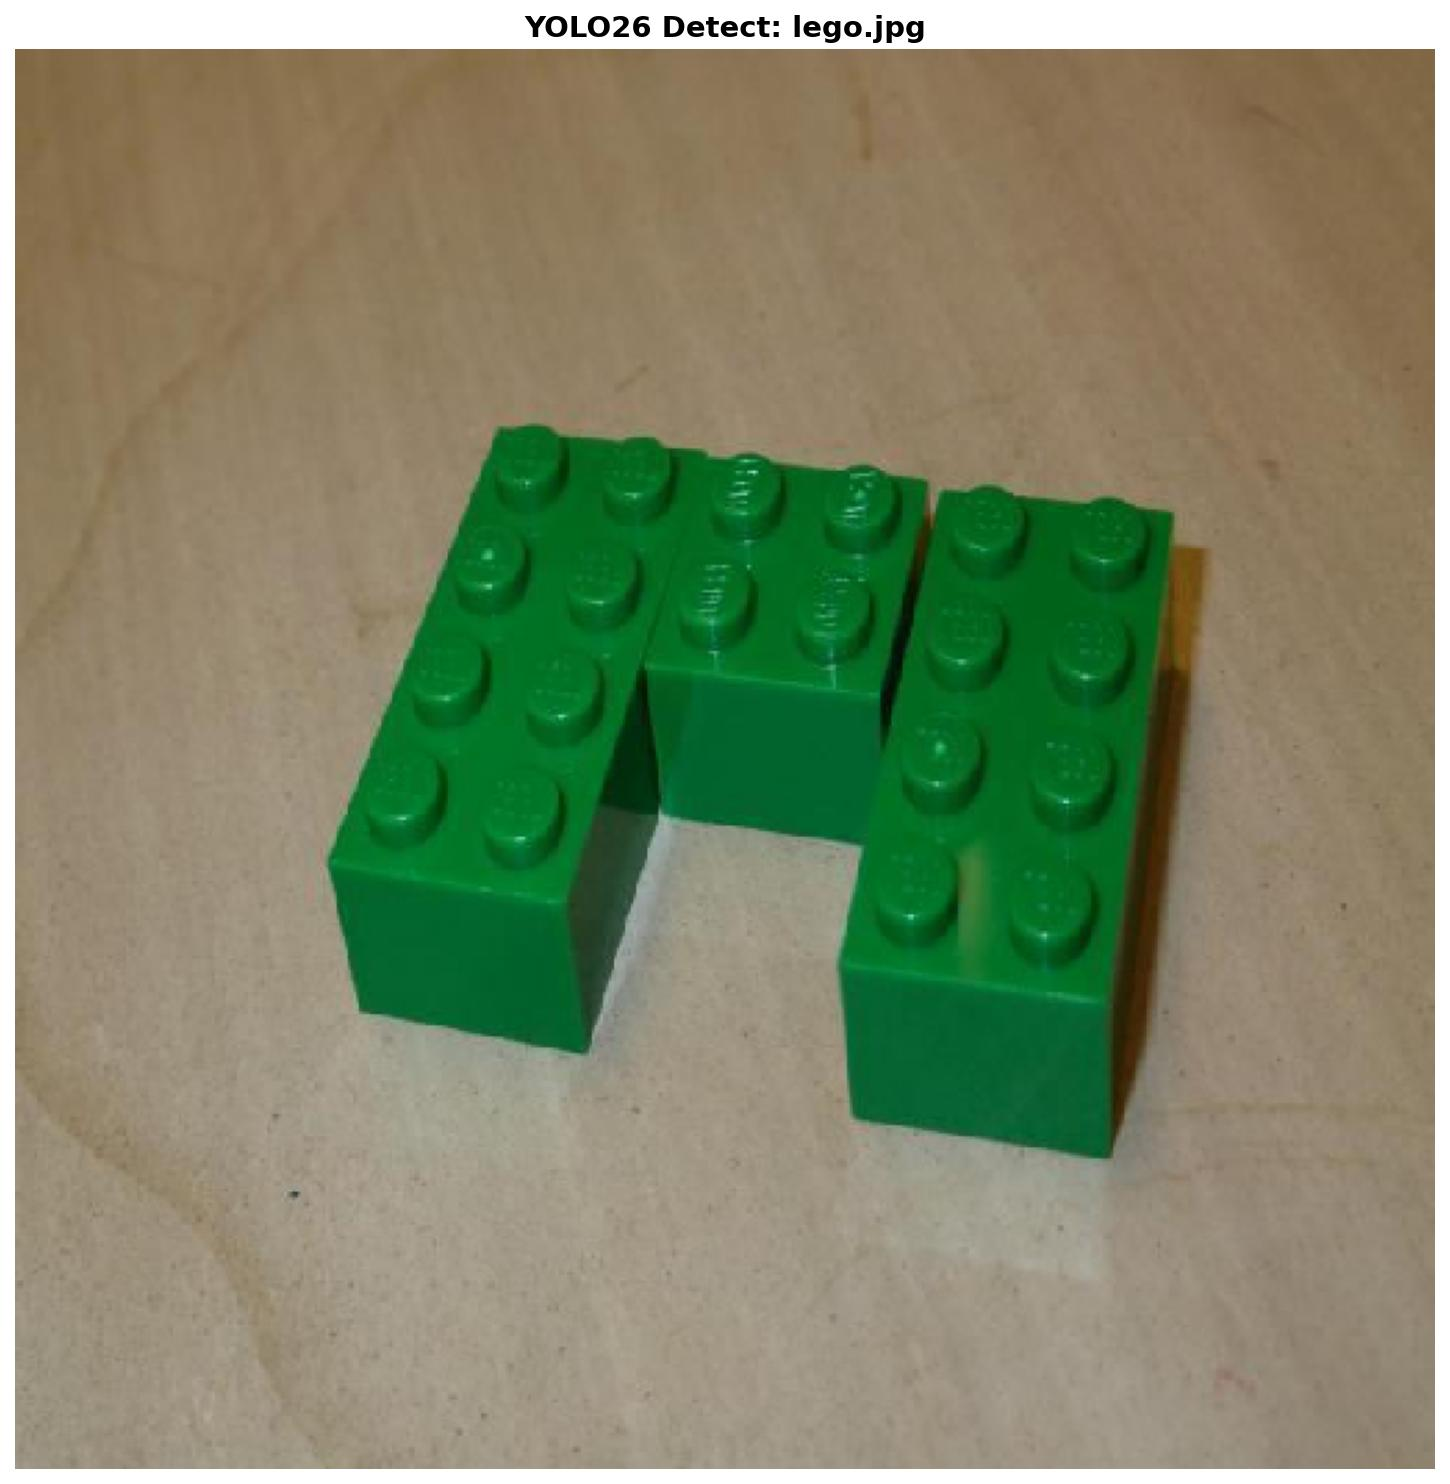
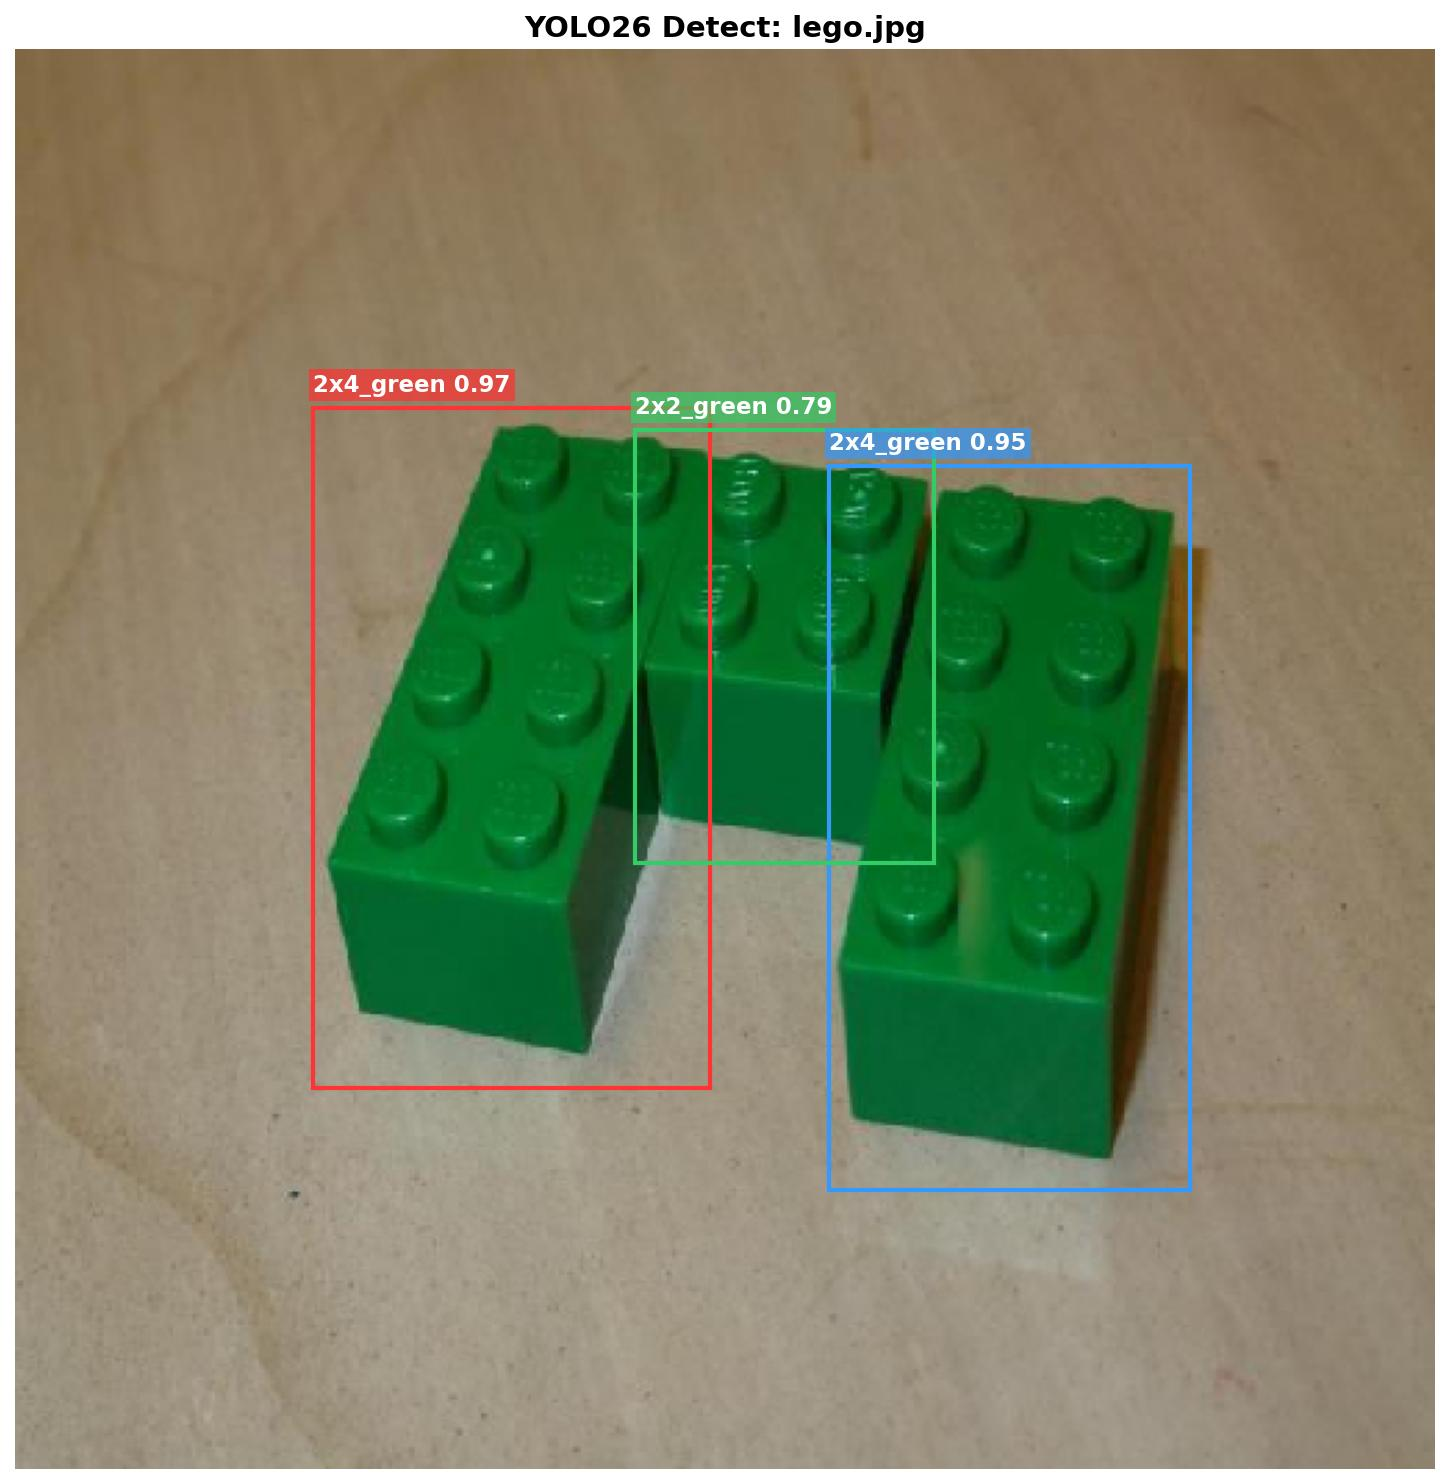
fix: separate COCO/Lego builds with #ifdef, fix wrong detection image in README
- Auto-select class labels, headers, and test images from MODEL_FILENAME
- Replace incorrect Lego detection image (was generated with COCO model)
- Single user config: set(MODEL_FILENAME ...) controls everything

Changed region(s): [[0.1862, 0.248, 0.8379, 0.8059], [0.6207, 0.558, 0.6517, 0.5889]]

diff --git a/examples/yolo26_detect/main/app_main.cpp b/examples/yolo26_detect/main/app_main.cpp
@@ -11,15 +11,15 @@
 static const char *TAG = "yolo26_detect";
 
 // =========================================================================
-// 🛠 USER CONFIGURATION: CLASS LABELS
+// 🛠 CLASS LABELS (Auto-selected by CMake based on MODEL_FILENAME)
 // =========================================================================
-/* * INSTRUCTIONS:
- * 1. Default: "coco_classes.hpp" (80 classes) is enabled.
- * 2. To use a CUSTOM MODEL (e.g. Lego detection 28 classes):
- * - Uncomment '#include "lego_classes.hpp"'
- */
-//#include "lego_classes.hpp"                  // <--- Uncomment for Lego Model
-const char **current_classes = coco_classes; // <--- Set your active classes  coco_classes/lego_classes here
+#ifdef USE_LEGO_MODEL
+#include "lego_classes.hpp"
+const char **current_classes = lego_classes;
+#else
+#include "coco_classes.hpp"
+const char **current_classes = coco_classes;
+#endif
 // =========================================================================
 
 // --- Model Embedding ---
@@ -28,12 +28,15 @@ const char **current_classes = coco_classes; // <--- Set your active classes  co
 extern const uint8_t model_binary_start[] asm(MODEL_SYMBOL_STR);
 
 // --- Image Embedding ---
+#ifdef USE_LEGO_MODEL
+extern const uint8_t lego_jpg_start[] asm("_binary_lego_jpg_start");
+extern const uint8_t lego_jpg_end[]   asm("_binary_lego_jpg_end");
+#else
 extern const uint8_t bus_jpg_start[] asm("_binary_bus_jpg_start");
 extern const uint8_t bus_jpg_end[]   asm("_binary_bus_jpg_end");
 extern const uint8_t person_jpg_start[] asm("_binary_person_jpg_start");
 extern const uint8_t person_jpg_end[]   asm("_binary_person_jpg_end");
-extern const uint8_t lego_jpg_start[] asm("_binary_lego_jpg_start");
-extern const uint8_t lego_jpg_end[]   asm("_binary_lego_jpg_end");
+#endif
 
 
 void test_inference(dl::Model *model, YOLO26 &processor, const uint8_t *jpg_data, size_t jpg_len, const char *name)
@@ -92,9 +95,12 @@ extern "C" void app_main(void)
     YOLO26 processor(model, YOLO_TARGET_K, YOLO_CONF_THRESH, current_classes);
 
     // 3. Run Tests
+#ifdef USE_LEGO_MODEL
+    test_inference(model, processor, lego_jpg_start, (size_t)(lego_jpg_end - lego_jpg_start), "lego.jpg");
+#else
     test_inference(model, processor, bus_jpg_start, (size_t)(bus_jpg_end - bus_jpg_start), "bus.jpg");
     test_inference(model, processor, person_jpg_start, (size_t)(person_jpg_end - person_jpg_start), "person.jpg");
-    test_inference(model, processor, lego_jpg_start, (size_t)(lego_jpg_end - lego_jpg_start), "lego.jpg");
+#endif
 
     delete model;
 }

diff --git a/examples/yolo26_detect/results/visualize_logs.py b/examples/yolo26_detect/results/visualize_logs.py
@@ -25,20 +25,18 @@ COLORS = ['#FF3333', '#3399FF', '#33CC66', '#FF9900', '#CC33FF', '#00CCCC']
 # UPDATED LOG DATA 
 # ======================================================================================
 RAW_LOG_DATA = """
-I (2158) image:: bus.jpg
-I (4358) yolo26_detect: Pre: 12 ms | Inf: 2070 ms | Post: 13 ms
-I (4358) YOLO26: [category: person, score: 0.83, x1: 86, y1: 187, x2: 177, y2: 428]
-I (4358) YOLO26: [category: bus, score: 0.79, x1: 70, y1: 109, x2: 448, y2: 349]
-I (4368) YOLO26: [category: person, score: 0.76, x1: 169, y1: 194, x2: 229, y2: 406]
-I (4368) YOLO26: [category: person, score: 0.70, x1: 380, y1: 187, x2: 449, y2: 416]
-I (4378) YOLO26: [category: person, score: 0.55, x1: 63, y1: 263, x2: 95, y2: 414]
-I (4388) image:: person.jpg
-I (6598) yolo26_detect: Pre: 11 ms | Inf: 2069 ms | Post: 13 ms
-I (6598) YOLO26: [category: person, score: 0.77, x1: 330, y1: 171, x2: 405, y2: 378]
-I (6608) YOLO26: [category: bicycle, score: 0.66, x1: 189, y1: 306, x2: 388, y2: 410]
-I (6608) YOLO26: [category: bicycle, score: 0.42, x1: 121, y1: 132, x2: 194, y2: 182]
-I (6618) image:: lego.jpg
-I (8818) yolo26_detect: Pre: 15 ms | Inf: 2068 ms | Post: 13 ms
+I (2159) image:: bus.jpg
+I (4349) yolo26_detect: Pre: 12 ms | Inf: 2067 ms | Post: 13 ms
+I (4349) YOLO26: [category: person, score: 0.83, x1: 86, y1: 187, x2: 177, y2: 428]
+I (4359) YOLO26: [category: bus, score: 0.79, x1: 70, y1: 109, x2: 448, y2: 349]
+I (4359) YOLO26: [category: person, score: 0.76, x1: 169, y1: 194, x2: 229, y2: 406]
+I (4369) YOLO26: [category: person, score: 0.70, x1: 380, y1: 187, x2: 449, y2: 416]
+I (4379) YOLO26: [category: person, score: 0.55, x1: 63, y1: 263, x2: 95, y2: 414]
+I (4379) image:: person.jpg
+I (6599) yolo26_detect: Pre: 11 ms | Inf: 2066 ms | Post: 13 ms
+I (6599) YOLO26: [category: person, score: 0.77, x1: 330, y1: 171, x2: 405, y2: 378]
+I (6599) YOLO26: [category: bicycle, score: 0.66, x1: 189, y1: 306, x2: 388, y2: 410]
+I (6609) YOLO26: [category: bicycle, score: 0.42, x1: 121, y1: 132, x2: 194, y2: 182]
 """
 
 # ======================================================================================

diff --git a/examples/yolo26_detect/README.md b/examples/yolo26_detect/README.md
@@ -24,35 +24,29 @@ It features direct regression (No NMS), high performance via `esp-dl` optimizati
 
 **ESP32-P4 | 512×512 | COCO model**
 ```text
-I (2158) image:: bus.jpg
-I (4358) yolo26_detect: Pre: 12 ms | Inf: 2070 ms | Post: 13 ms
-I (4358) YOLO26: [category: person, score: 0.83, x1: 86, y1: 187, x2: 177, y2: 428]
-I (4358) YOLO26: [category: bus, score: 0.79, x1: 70, y1: 109, x2: 448, y2: 349]
-I (4368) YOLO26: [category: person, score: 0.76, x1: 169, y1: 194, x2: 229, y2: 406]
-I (4368) YOLO26: [category: person, score: 0.70, x1: 380, y1: 187, x2: 449, y2: 416]
-I (4378) YOLO26: [category: person, score: 0.55, x1: 63, y1: 263, x2: 95, y2: 414]
-I (4388) image:: person.jpg
-I (6598) yolo26_detect: Pre: 11 ms | Inf: 2069 ms | Post: 13 ms
-I (6598) YOLO26: [category: person, score: 0.77, x1: 330, y1: 171, x2: 405, y2: 378]
-I (6608) YOLO26: [category: bicycle, score: 0.66, x1: 189, y1: 306, x2: 388, y2: 410]
-I (6608) YOLO26: [category: bicycle, score: 0.42, x1: 121, y1: 132, x2: 194, y2: 182]
-I (6618) image:: lego.jpg
-I (8818) yolo26_detect: Pre: 15 ms | Inf: 2068 ms | Post: 13 ms
+I (2159) image:: bus.jpg
+I (4349) yolo26_detect: Pre: 12 ms | Inf: 2067 ms | Post: 13 ms
+I (4349) YOLO26: [category: person, score: 0.83, x1: 86, y1: 187, x2: 177, y2: 428]
+I (4359) YOLO26: [category: bus, score: 0.79, x1: 70, y1: 109, x2: 448, y2: 349]
+I (4359) YOLO26: [category: person, score: 0.76, x1: 169, y1: 194, x2: 229, y2: 406]
+I (4369) YOLO26: [category: person, score: 0.70, x1: 380, y1: 187, x2: 449, y2: 416]
+I (4379) YOLO26: [category: person, score: 0.55, x1: 63, y1: 263, x2: 95, y2: 414]
+I (4379) image:: person.jpg
+I (6599) yolo26_detect: Pre: 11 ms | Inf: 2066 ms | Post: 13 ms
+I (6599) YOLO26: [category: person, score: 0.77, x1: 330, y1: 171, x2: 405, y2: 378]
+I (6599) YOLO26: [category: bicycle, score: 0.66, x1: 189, y1: 306, x2: 388, y2: 410]
+I (6609) YOLO26: [category: bicycle, score: 0.42, x1: 121, y1: 132, x2: 194, y2: 182]
 ```
 
 #### Custom Lego Model Output
 
 **ESP32-P4 | 512×512 | Lego custom model (28 classes)**
 ```text
-I (2140) image:: bus.jpg
-I (4280) yolo26_detect: Pre: 12 ms | Inf: 2019 ms | Post: 5 ms
-I (4280) image:: person.jpg
-I (6430) yolo26_detect: Pre: 11 ms | Inf: 2018 ms | Post: 5 ms
-I (6430) image:: lego.jpg
-I (8560) yolo26_detect: Pre: 15 ms | Inf: 2018 ms | Post: 5 ms
-I (8560) YOLO26: [category: backpack, score: 0.97, x1: 107, y1: 129, x2: 250, y2: 374]
-I (8570) YOLO26: [category: backpack, score: 0.95, x1: 293, y1: 150, x2: 423, y2: 411]
-I (8570) YOLO26: [category: bird, score: 0.79, x1: 223, y1: 137, x2: 331, y2: 293]
+I (2095) image:: lego.jpg
+I (4235) yolo26_detect: Pre: 15 ms | Inf: 2015 ms | Post: 5 ms
+I (4235) YOLO26: [category: 2x4_green, score: 0.97, x1: 107, y1: 129, x2: 250, y2: 374]
+I (4235) YOLO26: [category: 2x4_green, score: 0.95, x1: 293, y1: 150, x2: 423, y2: 411]
+I (4245) YOLO26: [category: 2x2_green, score: 0.79, x1: 223, y1: 137, x2: 331, y2: 293]
 ```
 
 ## Visualization
